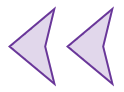
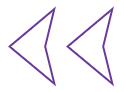
Fix bugs, no more translucent fill in buttons

Changed region(s): [[0.0726, 0.1304, 0.4355, 0.8696], [0.5565, 0.1304, 0.8952, 0.8696]]

diff --git a/downloader/AudioPlayerViewController.m b/downloader/AudioPlayerViewController.m
@@ -111,21 +111,21 @@
     _secondsRemaining.text = @"-0:00";
     [self.view addSubview:_secondsRemaining];
     
-    self.prevTrack = [[UIButton alloc]initWithFrame:CGRectMake(20, screenBounds.size.height-44-46-10, 62, 46)];
+    self.prevTrack = [[UIButton alloc]initWithFrame:CGRectMake(20, screenBounds.size.height-44-46-10, iPad?62:48.5, iPad?46:36)];
     _prevTrack.backgroundColor = [UIColor clearColor];
     [_prevTrack setImage:[UIImage imageNamed:@"back_button"] forState:UIControlStateNormal];
     [_prevTrack setImage:[UIImage imageNamed:@"back_button_pressed"] forState:UIControlStateHighlighted];
     [_prevTrack addTarget:kAppDelegate action:@selector(skipToPreviousTrack) forControlEvents:UIControlEventTouchUpInside];
     [self.view addSubview:_prevTrack];
     
-    self.nxtTrack = [[UIButton alloc]initWithFrame:CGRectMake(screenBounds.size.width-62-20, screenBounds.size.height-44-46-10, 62, 46)];
+    self.nxtTrack = [[UIButton alloc]initWithFrame:CGRectMake(screenBounds.size.width-(iPad?62:48.5)-20, screenBounds.size.height-44-46-10, iPad?62:48.5, iPad?46:36)];
     _nxtTrack.backgroundColor = [UIColor clearColor];
     [_nxtTrack setImage:[UIImage imageNamed:@"next_button"] forState:UIControlStateNormal];
     [_nxtTrack setImage:[UIImage imageNamed:@"next_button_pressed"] forState:UIControlStateHighlighted];
     [_nxtTrack addTarget:kAppDelegate action:@selector(skipToNextTrack) forControlEvents:UIControlEventTouchUpInside];
     [self.view addSubview:_nxtTrack];
     
-    self.pausePlay = [[UIButton alloc]initWithFrame:CGRectMake((screenBounds.size.width/2)-26, screenBounds.size.height-44-46-10, 52, 46)];
+    self.pausePlay = [[UIButton alloc]initWithFrame:CGRectMake((screenBounds.size.width/2)-((iPad?52:41)/2), screenBounds.size.height-44-46-10, iPad?52:41, iPad?46:36)];
     _pausePlay.backgroundColor = [UIColor clearColor];
     [_pausePlay setImage:[UIImage imageNamed:@"pause"] forState:UIControlStateNormal];
     [_pausePlay setImage:[UIImage imageNamed:@"pause_selected"] forState:UIControlStateHighlighted];
